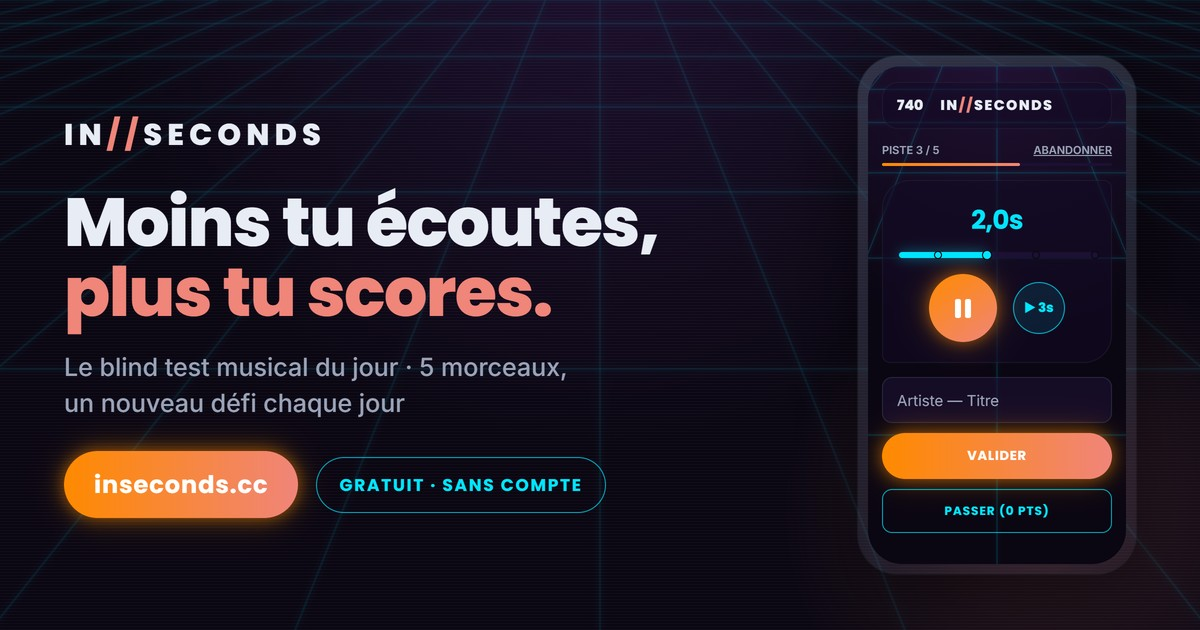
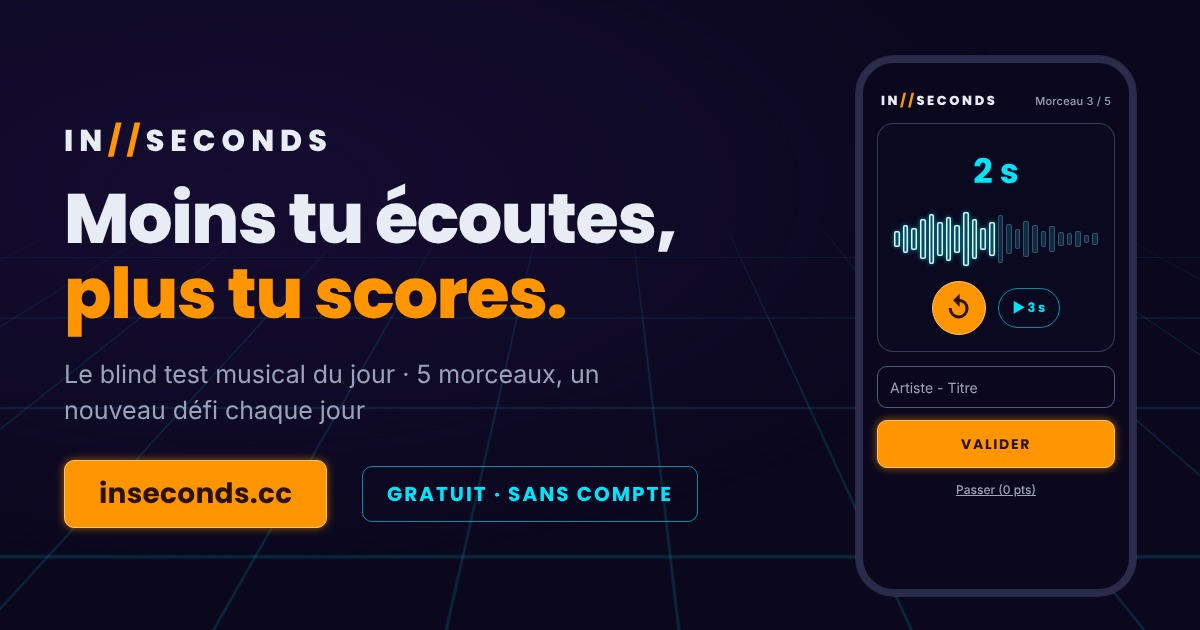
Aligner icônes PWA, image de partage et emails sur l'ambre vif de la DA

diff --git a/src/back/InSeconds.Api/Modules/Players/Email/Templates/_layout.html b/src/back/InSeconds.Api/Modules/Players/Email/Templates/_layout.html
@@ -56,9 +56,9 @@
   }
   /* Le bouton principal du jeu : ambre uni, texte noir chaud, filet clair et un seul halo serré. */
   .cta{
-    background:#FFC34D!important;
-    border:1.5px solid #FFF6DC;
-    box-shadow:0 0 8px rgb(255 195 77 / 0.6);
+    background:#FF9500!important;
+    border:1.5px solid #FFC46B;
+    box-shadow:0 0 8px rgb(255 149 0 / 0.6);
   }
   .panel{background:rgb(18 22 52 / 0.7)!important;}
   .hairline{background:rgb(150 165 230 / 0.22)!important;}
@@ -83,7 +83,7 @@
 
     <tr>
       <td align="center" style="padding:48px 24px 40px 24px;">
-        <span style="font-family:Tahoma,Verdana,Arial,sans-serif;font-size:15px;font-weight:bold;letter-spacing:3px;color:#e8ecf4;mso-line-height-rule:exactly;line-height:20px;">IN<span style="color:#FFC34D;">//</span>SECONDS</span>
+        <span style="font-family:Tahoma,Verdana,Arial,sans-serif;font-size:15px;font-weight:bold;letter-spacing:3px;color:#e8ecf4;mso-line-height-rule:exactly;line-height:20px;">IN<span style="color:#FF9500;">//</span>SECONDS</span>
       </td>
     </tr>
 

diff --git a/src/back/InSeconds.Api/Modules/Players/Email/Templates/confirm-email-change.html b/src/back/InSeconds.Api/Modules/Players/Email/Templates/confirm-email-change.html
@@ -20,7 +20,7 @@ Le blind test musical quotidien.
             <td class="px" align="center" style="padding:8px 48px 0 48px;">
               <table role="presentation" cellpadding="0" cellspacing="0" border="0" width="100%" style="width:100%;">
               <tr>
-                <td align="center" class="cta" bgcolor="#FFC34D" style="border-radius:10px;background-color:#FFC34D;border:1.5px solid #FFF6DC;">
+                <td align="center" class="cta" bgcolor="#FF9500" style="border-radius:10px;background-color:#FF9500;border:1.5px solid #FFC46B;">
                   <a href="{{CONFIRM_URL}}" style="display:block;padding:18px 24px;font-family:Tahoma,Verdana,Arial,sans-serif;font-size:15px;font-weight:bold;letter-spacing:1.5px;text-transform:uppercase;color:#2A1400;text-decoration:none;mso-line-height-rule:exactly;line-height:20px;">Confirmer le changement</a>
                 </td>
               </tr>

diff --git a/src/back/InSeconds.Api/Modules/Players/Email/Templates/magic-link.html b/src/back/InSeconds.Api/Modules/Players/Email/Templates/magic-link.html
@@ -19,7 +19,7 @@ Le blind test musical quotidien.
             <td class="px" align="center" style="padding:8px 48px 0 48px;">
               <table role="presentation" cellpadding="0" cellspacing="0" border="0" width="100%" style="width:100%;">
               <tr>
-                <td align="center" class="cta" bgcolor="#FFC34D" style="border-radius:10px;background-color:#FFC34D;border:1.5px solid #FFF6DC;">
+                <td align="center" class="cta" bgcolor="#FF9500" style="border-radius:10px;background-color:#FF9500;border:1.5px solid #FFC46B;">
                   <a href="{{MAGIC_LINK_URL}}" style="display:block;padding:18px 24px;font-family:Tahoma,Verdana,Arial,sans-serif;font-size:15px;font-weight:bold;letter-spacing:1.5px;text-transform:uppercase;color:#2A1400;text-decoration:none;mso-line-height-rule:exactly;line-height:20px;">Se connecter</a>
                 </td>
               </tr>

diff --git a/src/back/CLAUDE.md b/src/back/CLAUDE.md
@@ -231,7 +231,7 @@ Identité, compte, appareils, rôle admin. Point d'entrée `PlayersModule.AddPla
   - **S1, le jeton n'est jamais dans l'outbox** : le message ne porte que l'adresse ; `SendMagicLinkEmailHandler` génère le jeton (`AuthTokenSecret` : 32 octets en base64url, SHA-256 en UTF-8), enregistre son hash (`AuthToken.IssueLogin`, 15 minutes) et envoie l'email, dans la transaction du message : si l'envoi échoue, rien n'est enregistré et le réessai fait un nouveau jeton. Pas de nouveau lien si un autre, non utilisé, est parti il y a moins d'une minute. Les messages traités restent quelques minutes dans `messaging` (rétention par défaut de Wolverine), avec l'adresse mais sans jeton (`MagicLinkTests.S1_…`).
   - Lien : `{App:PublicUrl}/account/login/verify?token=…` (`AppOptions`, `Infrastructure/Hosting` ; prod `https://inseconds.cc`, staging `https://dev.inseconds.cc`, sinon `http://localhost:5176` ; vérifié au démarrage).
   - **Connexion** (`AccountSignIn`, partagée avec le dev-login, et demain Google) : `PrepareAsync` décide sans écrire (`AccountSignInPlan`), `ExecuteAsync` écrit sans enregistrer (transaction de l'appelant). Adresse avec compte : connexion sur ce compte (`Found`). Sans compte : création avec le pseudo, sur l'invité du navigateur s'il en est un, **sinon sur un nouveau joueur, jamais en convertissant un compte déjà lié** (piège 30) ; puis `IStreakGrants.GrantAccountCreationFreezeAsync` (contrat de Daily : le gel offert, `DailyStreakGrants` ; il prend un verrou qui exige une transaction) (`Linked`). Dans tous les cas : **nouvelle session d'appareil, nouveau cookie, l'ancienne session du navigateur révoquée** (S5). Journal EventId **1006** (« Connexion par magic link : {PlayerId} ({LinkOutcome}) »), sans email.
-  - **Emails** (`Email/`) : `IEmailComposer<TModel>` par email ; gabarits (`_layout.html`, `magic-link.html`) embarqués, assemblés par `EmailTemplateRenderer` (sections `<!--#nom-->`, jetons `{{CLEF}}`), sujet « Ton lien de connexion IN//SECONDS ».
+  - **Emails** (`Email/`) : `IEmailComposer<TModel>` par email ; gabarits (`_layout.html`, `magic-link.html`) embarqués, assemblés par `EmailTemplateRenderer` (sections `<!--#nom-->`, jetons `{{CLEF}}`), sujet « Ton lien de connexion IN//SECONDS ». Couleurs des gabarits alignées sur la DA du jeu (bouton en ambre uni #FF9500, texte #2A1400, filet #FFC46B, « // » du logo en ambre) : à changer avec elle.
   - Pseudo : 3 à 20 caractères parmi lettres, chiffres, espace, `_`, `.`, `-` ; unicité sans casse (`citext`).
   - Tests : `Players/MagicLinkTests` (dont pièges 21, 22 et 30, S1, S2, S5, double confirmation simultanée et pseudo pris au même moment, provoqués par `RecordingStreakGrants.OnGrant` au milieu de la création du compte), `Players/MagicLinkEmailFailureTests` (envoi en échec : aucun jeton en base), `UnitTests/Players` (`AuthTokenTests`, `TrustedOriginsTests`, `MagicLinkEmailComposerTests`, `AccountConflictExceptionHandlerTests`), `Players/ProfileTests` (pseudo, changement d'email, S2 dans l'autre sens, limite par joueur), `Players/DevicesTests` (liste et libellés, déconnexion sans toucher aux autres appareils, révocations, limite par joueur), `Players/PlayersPurgeTests` (jetons, appareils, comptes inactifs, admin et invité gardés, étape en échec), `Players/PlayerDataTests` (export, suppression, piège 48), `Players/PlayerDataCommandTests`, `UnitTests/Players/PlayerDataRulesTests`, `UnitTests/Players/ConfirmEmailChangeEmailComposerTests`, `UnitTests/Infrastructure/DeviceLabelTests`.
 

diff --git a/src/front/CLAUDE.md b/src/front/CLAUDE.md
@@ -42,7 +42,8 @@ src/front/InSeconds.Client/
 ├── public/
 │   ├── i18n/{fr,en}.json      # clés rangées par domaine (common, errors, shell, ui, puis daily, account…)
 │   ├── favicon.svg            # « IN// » du logo (Poppins 800, IN en blanc, // en ambre) sur le fond du site, comme la photo de profil Instagram
-│   ├── manifest.webmanifest + icons/   # installation sur l'écran d'accueil : mêmes « IN// » en PNG (192, 512, apple-touch 180, maskable 512 avec une marge pour le recadrage d'Android)
+│   ├── manifest.webmanifest + icons/   # installation sur l'écran d'accueil : mêmes « IN// » en PNG, // en ambre vif #FF9500 sur --rgb-bg (192, 512, apple-touch 180, maskable 512 avec une marge pour le recadrage d'Android)
+│   ├── og-image.jpg           # image de partage (og:image, 1200×630) : le titre, un bouton ambre uni et un lecteur dans la DA actuelle ; refaite à chaque changement de DA (jamais de pochette ni d'extrait Deezer)
 │   └── robots.txt, sitemap.xml         # robots.txt écarte /survie et l'ancien /runs (les liens de playlists ne s'indexent pas) ; sitemap de secours (/daily, /legal, /privacy) : Caddy envoie /sitemap.xml à l'API, qui ajoute les jours publiés
 └── src/app/
     ├── app.ts / app.html      # coquille : bandeau DEV, toasts, bandeau de mise à jour, avis d'ancienne adresse, overlay
